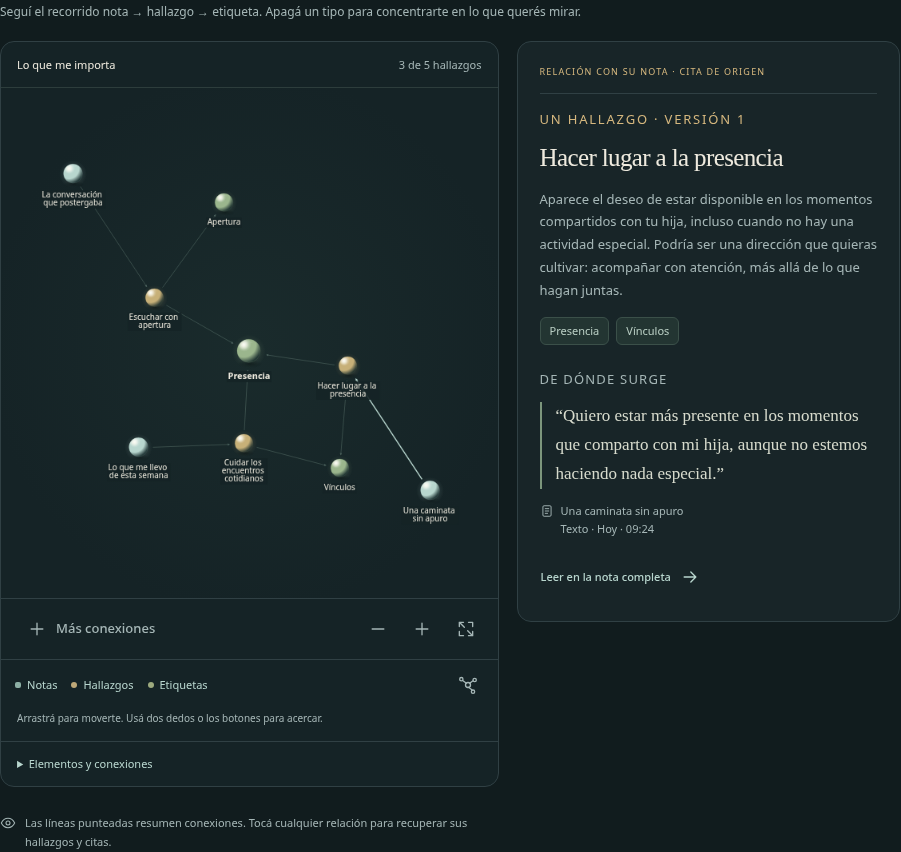
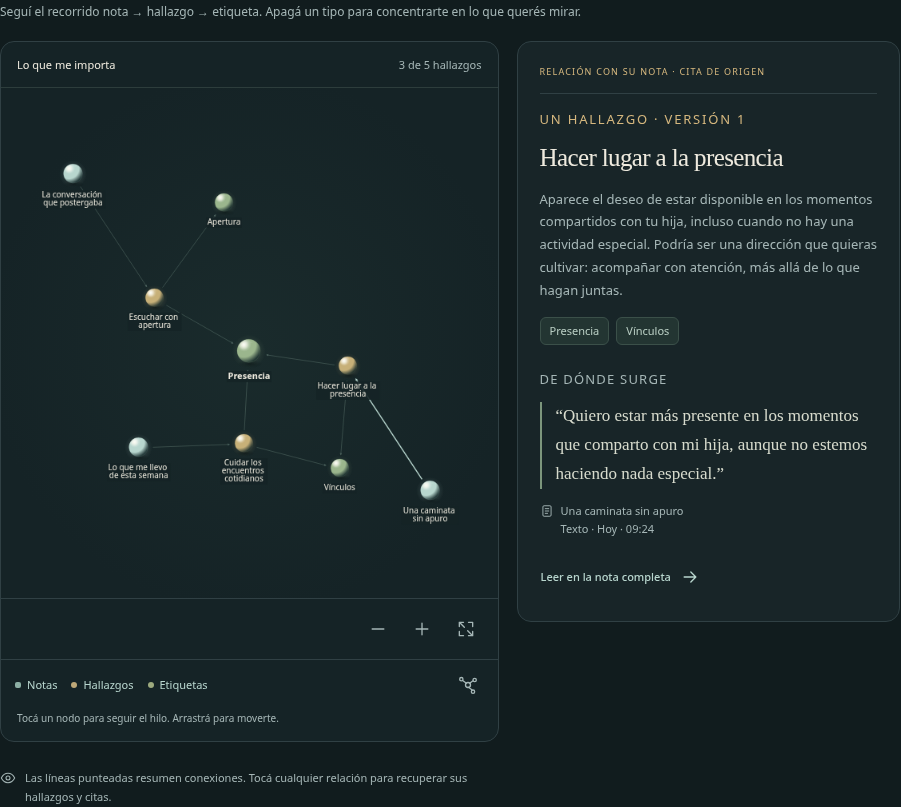
prototype de laboratorio. aprobado el grafo

diff --git a/prototypes/laboratorio/app.js b/prototypes/laboratorio/app.js
@@ -39,7 +39,7 @@
     draft: stored?.draft?.sample ? stored.draft : stored?.initialized ? null : draftDemo(),
     axes: Array.isArray(stored?.axes) ? stored.axes : [demoAxis()],
     page: 'inicio', preview: null, history: [], historyIndex: -1, resultMode: 'graph',
-    selected: '', selectedTag: '', expanded: false, zoom: 1, search: '',
+    selected: '', selectedTag: '', graphRevealed: null, zoom: 1, search: '',
     graphVisibility: { note: true, finding: true, label: true }, graphModel: null, graphEntity: null, graphFocusTag: '',
     busy: false, doneCount: 0, compiling: false, scenario: '', returnToResults: false,
     axisId: 'valores', savedAxisId: '', feedback: '',
@@ -170,9 +170,6 @@
   function graphElements() {
     return [...state.graphModel.nodes, ...state.graphModel.edges].map(x => x.data);
   }
-  function graphElementList() {
-    return graphElements().map(e => `<button data-action="graph-select" data-id="${escape(e.id)}" aria-label="${escape(e.accessible)}"><span>${escape(e.accessible)}</span>${icon('chevron')}</button>`).join('');
-  }
   function graphLegend() {
     return `<div id="graph-layer-controls" class="layer-controls" role="group" aria-label="Tipos de nodo">${graphLayerControls()}</div><span id="graph-layer-help" class="sr-only">Tocá cada referencia para mostrar u ocultar ese tipo de nodo. Debe quedar al menos uno visible.</span><button class="quiet icon-button" data-action="arrange" aria-label="Ordenar" title="Ordenar grafo">${icon('graph')}</button>`;
   }
@@ -190,12 +187,11 @@
   }
   function graph(p) {
     const fs = findings(p);
-    state.graphModel = window.LabGraph.project(fs, { visibility: state.graphVisibility, expanded: state.expanded, focusTag: state.graphFocusTag });
+    state.graphModel = window.LabGraph.project(fs, { visibility: state.graphVisibility, revealedFindingIds: state.graphRevealed, focusTag: state.graphFocusTag });
     state.graphFocusTag = state.graphModel.rootTag;
     const elements = graphElements();
     state.graphEntity = elements.find(e => e.id === state.graphEntity?.id) || state.graphModel.nodes.find(n => n.data.id === state.graphModel.rootId)?.data;
-    const canExpand = state.graphModel.visibleFindingIds.length < fs.length || state.expanded;
-    return `<section class="graph-panel" aria-label="Conexiones de los hallazgos"><div class="graph-top"><span>${escape(p.title)}</span><span class="graph-caption">${state.graphModel.visibleFindingIds.length} de ${fs.length} hallazgos</span></div><div class="graph-canvas" id="lab-graph" role="img" tabindex="0" aria-label="Grafo de notas, hallazgos y etiquetas. Podés arrastrar nodos y tocar conexiones. Para navegar con teclado, abrí Elementos y conexiones."></div><div class="graph-tools"><button class="quiet" data-action="expand" ${canExpand ? '' : 'disabled'}>${icon(state.expanded ? 'minus' : 'plus')}${state.expanded ? 'Menos conexiones' : 'Más conexiones'}</button><div><button class="icon-button quiet" data-action="zoom-out" aria-label="Alejar grafo">${icon('minus')}</button><button class="icon-button quiet" data-action="zoom-in" aria-label="Acercar grafo">${icon('plus')}</button><button class="icon-button quiet" data-action="fit-graph" aria-label="Ajustar grafo a la pantalla">${icon('reset')}</button></div></div><div class="graph-legend">${graphLegend()}</div><p class="graph-help">Arrastrá para moverte. Usá dos dedos o los botones para acercar.</p><details class="graph-accessibility"><summary>Elementos y conexiones</summary><p>La misma exploración, disponible con teclado.</p><div class="graph-element-list">${graphElementList()}</div></details></section>`;
+    return `<section class="graph-panel" aria-label="Conexiones de los hallazgos"><div class="graph-top"><span>${escape(p.title)}</span><span class="graph-caption">${state.graphModel.visibleFindingIds.length} de ${fs.length} hallazgos</span></div><div class="graph-canvas" id="lab-graph" role="img" tabindex="0" aria-label="Grafo de notas, hallazgos y etiquetas. Podés arrastrar nodos y tocar conexiones. Para leer con teclado, usá la vista Lista."></div><div class="graph-tools"><div><button class="icon-button quiet" data-action="zoom-out" aria-label="Alejar grafo">${icon('minus')}</button><button class="icon-button quiet" data-action="zoom-in" aria-label="Acercar grafo">${icon('plus')}</button><button class="icon-button quiet" data-action="fit-graph" aria-label="Ajustar grafo a la pantalla">${icon('reset')}</button></div></div><div class="graph-legend">${graphLegend()}</div><p class="graph-help">Tocá un nodo para seguir el hilo. Arrastrá para moverte.</p></section>`;
   }
   function graphDetail(p, active = false) {
     const fs = findings(p), e = state.graphEntity;
@@ -223,17 +219,29 @@
     const hiddenSelection = !graphElements().some(item => item.id === e.id);
     return `${hiddenSelection ? '<p class="selection-hidden">Este elemento está oculto en el mapa. Su detalle sigue disponible.</p>' : ''}<button class="text-button back-to-graph" data-action="back-to-graph">${icon('back')}Volver al grafo</button>${body}`;
   }
-  function selectGraphEntity(entity, moveFocus = true) {
+  function selectGraphEntity(entity, moveFocus = true, expandNeighbors = true) {
     const p = graphContext(); if (!p || !entity) return;
     state.graphEntity = entity;
-    if (entity.kind === 'label') state.graphFocusTag = entity.tag;
+    let grew = false;
+    if (expandNeighbors && ['note', 'finding', 'label'].includes(entity.kind)) {
+      const fs = findings(p), revealed = new Set(state.graphModel.visibleFindingIds);
+      const neighbors = fs.filter(f => entity.kind === 'note' ? f.note === entity.noteId : entity.kind === 'finding' ? f.id === entity.findingId : f.tags.some(t => t.toLocaleLowerCase('es').trim() === entity.tag.toLocaleLowerCase('es').trim()));
+      neighbors.forEach(f => revealed.add(f.id));
+      if (revealed.size > state.graphModel.visibleFindingIds.length) {
+        grew = true;
+        state.graphRevealed = [...revealed];
+        state.graphModel = window.LabGraph.project(fs, { visibility: state.graphVisibility, revealedFindingIds: state.graphRevealed, focusTag: state.graphFocusTag });
+        graphController?.update(state.graphModel, entity.id);
+        $('.graph-caption').textContent = `${revealed.size} de ${fs.length} hallazgos`;
+      }
+    }
     if (entity.kind === 'finding') state.selected = entity.findingId;
     graphController?.select(entity.id);
     const target = $('#finding-detail');
     target.innerHTML = graphDetail(p, state.page.startsWith('eje-'));
     if (moveFocus) {
       target.focus({ preventScroll: true });
-      if (innerWidth < 1150) target.scrollIntoView({ behavior: matchMedia('(prefers-reduced-motion: reduce)').matches ? 'instant' : 'smooth', block: 'start' });
+      if (innerWidth < 1150 && !grew) target.scrollIntoView({ behavior: matchMedia('(prefers-reduced-motion: reduce)').matches ? 'instant' : 'smooth', block: 'start' });
     }
   }
   function mountGraph() {
@@ -252,7 +260,7 @@
   function axisPage() {
     const a = state.axes.find(x => x.id === state.axisId); if (!a) return home();
     const p = { ...a, comments: [], sample: a.hasResults ? [...new Set(D.findings[a.kind].map(f => f.note))] : [] };
-    return `${backHome()}<section class="workflow"><div class="axis-header"><p class="kicker">TU EJE · VERSIÓN ${a.version}</p><div class="switch-control"><span>${a.enabled ? 'Activo' : 'En pausa'}</span><button class="switch" role="switch" aria-checked="${a.enabled}" aria-label="Activar ${escape(a.title)}" data-action="toggle-axis"><span class="switch-track"><span class="switch-knob"></span></span></button></div></div><div class="intro"><h1>${escape(a.title)}</h1><p>${escape(a.purpose)}</p></div><div class="version-info"><span>${a.hasResults ? '4 notas · 5 hallazgos de ejemplo' : 'Todavía sin notas procesadas'}</span><span>${a.enabled ? 'Se aplica a notas nuevas' : 'Las próximas notas no usarán este eje'}</span></div><div class="section-heading"><h2>Seguí un hilo</h2><button class="text-button" data-action="edit-axis">Ajustar esta mirada${icon('edit')}</button></div>${a.hasResults ? `<div class="result-toolbar"><div class="segmented" role="group" aria-label="Vista de resultados"><button data-action="mode" data-mode="graph" aria-pressed="${state.resultMode === 'graph'}">${icon('graph')}Grafo</button><button data-action="mode" data-mode="list" aria-pressed="${state.resultMode === 'list'}">${icon('list')}Lista</button></div><span class="meta">Resultados conservados · versión ${a.resultsVersion || 1}</span></div>${resultsBody(p, true)}` : `<div class="empty"><span class="axis-symbol sage">${icon('leaf')}</span><h2>Una mirada lista para crecer.</h2><p>Los hallazgos aparecerán con tus próximas notas.<br>Las cinco notas de prueba no se incorporaron.</p><button class="secondary" data-action="demo-explore">Ver una exploración de ejemplo${icon('arrow')}</button></div>`}<p class="footnote">${icon('lock')}Esta es una demostración. Activar o pausar sólo cambia este prototipo.</p></section>`;
+    return `${backHome()}<section class="workflow"><div class="axis-header"><p class="kicker">TU EJE · VERSIÓN ${a.version}</p><div class="switch-control"><span>${a.enabled ? 'Activo' : 'En pausa'}</span><button class="switch" role="switch" aria-checked="${a.enabled}" aria-label="Activar ${escape(a.title)}" data-action="toggle-axis"><span class="switch-track"><span class="switch-knob"></span></span></button></div></div><div class="intro axis-intro"><h1>${escape(a.title)}</h1></div><details class="axis-description"><summary>Sobre este eje</summary><p>${escape(a.purpose)}</p><div class="version-info"><span>${a.hasResults ? '4 notas · 5 hallazgos de ejemplo' : 'Todavía sin notas procesadas'}</span><span>${a.enabled ? 'Se aplica a notas nuevas' : 'Las próximas notas no usarán este eje'}</span></div></details><div class="section-heading"><h2>Seguí un hilo</h2><button class="text-button" data-action="edit-axis">Ajustar esta mirada${icon('edit')}</button></div>${a.hasResults ? `<div class="result-toolbar"><div class="segmented" role="group" aria-label="Vista de resultados"><button data-action="mode" data-mode="graph" aria-pressed="${state.resultMode === 'graph'}">${icon('graph')}Grafo</button><button data-action="mode" data-mode="list" aria-pressed="${state.resultMode === 'list'}">${icon('list')}Lista</button></div><span class="meta">Resultados conservados · versión ${a.resultsVersion || 1}</span></div>${resultsBody(p, true)}` : `<div class="empty"><span class="axis-symbol sage">${icon('leaf')}</span><h2>Una mirada lista para crecer.</h2><p>Los hallazgos aparecerán con tus próximas notas.<br>Las cinco notas de prueba no se incorporaron.</p><button class="secondary" data-action="demo-explore">Ver una exploración de ejemplo${icon('arrow')}</button></div>`}<p class="footnote">${icon('lock')}Esta es una demostración. Activar o pausar sólo cambia este prototipo.</p></section>`;
   }
   function success() {
     const a = state.axes.find(x => x.id === state.savedAxisId); if (!a) return home();
@@ -300,7 +308,7 @@
     const kind = d.kind || (/podcast|episodio|propuesta|producto/i.test(d.purpose) ? 'podcast' : 'values');
     state.preview = { ...d, kind, number: state.history.length + 1, expired: false, failedNote: '', comments: [...(d.comments || [])] };
     state.busy = true; state.compiling = true; state.doneCount = 0; state.selectedTag = '';
-    state.selected = ''; state.expanded = false; state.zoom = 1; state.feedback = '';
+    state.selected = ''; state.graphRevealed = null; state.zoom = 1; state.feedback = '';
     const job = ++jobGeneration;
     go('resultados');
     setTimeout(() => {
@@ -368,16 +376,12 @@
       const kind = button.dataset.kind;
       if (state.graphVisibility[kind] && Object.values(state.graphVisibility).filter(Boolean).length === 1) return;
       state.graphVisibility[kind] = !state.graphVisibility[kind];
-      state.graphModel = window.LabGraph.project(findings(graphContext()), { visibility: state.graphVisibility, expanded: state.expanded, focusTag: state.graphFocusTag });
+      state.graphModel = window.LabGraph.project(findings(graphContext()), { visibility: state.graphVisibility, revealedFindingIds: state.graphRevealed, focusTag: state.graphFocusTag });
       graphController?.update(state.graphModel);
       $('#graph-layer-controls').innerHTML = graphLayerControls();
       $('#graph-description').textContent = graphDescription();
-      $('.graph-element-list').innerHTML = graphElementList();
-      if (state.graphEntity) selectGraphEntity(state.graphEntity, false);
+      if (state.graphEntity) selectGraphEntity(state.graphEntity, false, false);
       $(`[data-action="graph-layer"][data-kind="${kind}"]`).focus({ preventScroll: true });
-    } else if (action === 'graph-select') {
-      const e = [...state.graphModel.nodes, ...state.graphModel.edges].find(x => x.data.id === button.dataset.id)?.data;
-      selectGraphEntity(e);
     } else if (action === 'graph-finding' || action === 'graph-tag' || action === 'graph-note') {
       const p = graphContext(), fs = findings(p), id = button.dataset.id;
       let e = state.graphModel.nodes.find(x => x.data.findingId === id)?.data;
@@ -394,9 +398,6 @@
       else if (action === 'zoom-out') graphController?.zoom(.8);
       else if (action === 'arrange') graphController?.arrange();
       else graphController?.fit();
-    } else if (action === 'expand') {
-      state.expanded = !state.expanded; state.graphEntity = null;
-      render({ focus: false, scroll: false }); $('[data-action="expand"]')?.focus({ preventScroll: true });
     } else if (action === 'edit-purpose') { state.returnToResults = true; go('crear'); }
     else if (action === 'view-purpose') showModal('La mirada de esta prueba', `<p class="kicker">${escape(activePreview().title)}</p><p>${escape(activePreview().purpose)}</p><div class="modal-actions"><button class="secondary" data-action="close-modal">Volver a los hallazgos</button><button class="primary" data-action="edit-purpose-modal">Editar mi intención${icon('edit')}</button></div>`);
     else if (action === 'edit-purpose-modal') { closeModal(); state.returnToResults = true; go('crear'); }
@@ -407,7 +408,7 @@
     else if (action === 'retry') { const retried = state.preview, generation = jobGeneration; button.disabled = true; button.innerHTML = '<span class="spinner" aria-hidden="true"></span>Revisando la nota pendiente…'; setTimeout(() => { if (state.preview === retried && generation === jobGeneration) { retried.failedNote = ''; render({ scroll: false }); toast('La nota pendiente ya está revisada. Conservamos los otros resultados.'); } }, 1000); }
     else if (action === 'accept-dialog') showModal(state.draft?.axisId ? '¿Guardar esta nueva versión?' : '¿Activar esta mirada?', `<p>Vas a conservar exactamente la mirada de la prueba que acabás de revisar.</p><div class="success-card"><p class="kicker">${escape(activePreview().title)}</p><p>Se aplicará a las próximas notas. Las cinco notas de prueba quedan aparte.</p></div><div class="modal-actions"><button class="secondary" data-action="close-modal">Seguir revisando</button><button class="primary" data-action="accept">${icon('check')}${state.draft?.axisId ? 'Guardar versión' : 'Activar eje'}</button></div>`);
     else if (action === 'accept') acceptPreview();
-    else if (action === 'open-axis') { state.axisId = button.dataset.id; state.selected = ''; state.selectedTag = ''; state.zoom = 1; state.expanded = false; go(`eje-${state.axisId}`); }
+    else if (action === 'open-axis') { state.axisId = button.dataset.id; state.selected = ''; state.selectedTag = ''; state.zoom = 1; state.graphRevealed = null; go(`eje-${state.axisId}`); }
     else if (action === 'toggle-axis') { const a = state.axes.find(x => x.id === state.axisId); a.enabled = !a.enabled; save(); render({ focus: false, scroll: false }); $('[data-action="toggle-axis"]').focus({ preventScroll: true }); toast(a.enabled ? 'Eje activo en la demostración.' : 'Eje en pausa. Los hallazgos anteriores se conservan.'); }
     else if (action === 'edit-axis' || action === 'edit-axis-confirm') {
       const a = state.axes.find(x => x.id === state.axisId);

diff --git a/prototypes/laboratorio/graph.js b/prototypes/laboratorio/graph.js
@@ -5,7 +5,7 @@
   const noteId = id => `note:${id}`;
   const findingId = id => `finding:${id}`;
   const documentFor = id => window.LAB_DATA.notes.find(n => n.id === id);
-  function project(findings, { visibility = {}, expanded = false, focusTag = '' } = {}) {
+  function project(findings, { visibility = {}, expanded = false, focusTag = '', revealedFindingIds = null } = {}) {
     const shown = { note: true, finding: true, label: true, ...visibility };
     if (!Object.values(shown).some(Boolean)) shown.label = true;
     const labels = new Map();
@@ -16,7 +16,8 @@
     }
     const ranked = [...labels.values()].sort((a, b) => b.notes.size - a.notes.size || a.label.localeCompare(b.label));
     const rootTag = labels.get(key(focusTag))?.label || ranked[0]?.label || '';
-    const visible = expanded ? findings : findings.filter(f => f.tags.some(t => key(t) === key(rootTag)));
+    const revealed = revealedFindingIds ? new Set(revealedFindingIds) : null;
+    const visible = revealed ? findings.filter(f => revealed.has(f.id)) : expanded ? findings : findings.filter(f => f.tags.some(t => key(t) === key(rootTag)));
     const nodes = new Map(), baseEdges = new Map(), edges = new Map();
     const addEdge = (target, data) => target.set(data.id, { data });
     for (const f of visible) {
@@ -162,10 +163,22 @@
       wheelSensitivity: .2, boxSelectionEnabled: false, autounselectify: true,
     });
     cy.getElementById(model.layoutRootId).addClass('root');
-    function update(next) {
+    function update(next, anchorId) {
       model = next;
       const shown = new Set(model.nodes.map(n => n.data.id));
+      const anchor = cy.getElementById(anchorId || model.layoutRootId).position() || { x: 0, y: 0 };
+      const occupied = cy.nodes().map(n => n.position());
       cy.batch(() => {
+        for (const node of model.allNodes) if (!cy.getElementById(node.data.id).length) {
+          let position;
+          for (let attempt = 0; attempt < 200; attempt++) {
+            const angle = attempt * 2.399963, radius = 130 + Math.floor(attempt / 12) * 80;
+            position = { x: anchor.x + Math.cos(angle) * radius, y: anchor.y + Math.sin(angle) * radius };
+            if (occupied.every(p => Math.hypot(p.x-position.x, p.y-position.y) > 115)) break;
+          }
+          occupied.push(position);
+          cy.add({ ...node, classes: 'combined', position });
+        }
         cy.nodes().forEach(n => n.toggleClass('layer-hidden', !shown.has(n.id())));
         cy.edges().remove();
         cy.add(model.edges);

diff --git a/prototypes/laboratorio/style.css b/prototypes/laboratorio/style.css
@@ -172,11 +172,6 @@ textarea { min-height: 185px; resize: vertical; }
 .projection-description { font-size: 12px; max-width: 690px; margin: 0 0 19px; }
 .graph-canvas { position: relative; width: 100%; height: 440px; overflow: hidden; background: radial-gradient(ellipse at center, #1a2b2c 0, #152326 75%); }
 .graph-canvas canvas { display: block; }
-.graph-accessibility { border-top: 1px solid var(--line); font-size: 11px; color: var(--muted); }
-.graph-accessibility summary { min-height: 44px; padding: 14px 16px; cursor: pointer; color: var(--accent); }
-.graph-accessibility > p { margin: 0; padding: 0 16px; font-size: 11px; }
-.graph-element-list { padding: 8px 12px 13px; display: grid; gap: 4px; }
-.graph-element-list button { text-align: left; justify-content: space-between; border-bottom: 1px solid var(--line); font-size: 11px; border-radius: 0; }
 .graph-legend > .icon-button { margin-left: auto; color: var(--muted); }
 .connection-finding { padding-block: 16px; border-top: 1px solid var(--line); }
 .connection-finding h3 { margin: 0 0 12px; font: 22px/1.4 var(--font-editorial); }
@@ -350,3 +345,12 @@ blockquote { font: 17px/1.7 var(--font-editorial); color: #d7dbcd; padding: 0 0 
 @media (prefers-reduced-motion: reduce) {
   *, *::before, *::after { animation: none !important; transition: none !important; scroll-behavior: auto !important; }
 }
+
+.axis-intro h1 { margin-bottom: 8px; }
+.axis-description { border-bottom: 1px solid var(--line); margin-bottom: 20px; }
+.axis-description summary { display: flex; align-items: center; gap: 8px; min-height: 44px; width: fit-content; cursor: pointer; color: var(--muted); font-size: 11px; list-style: none; }
+.axis-description summary::-webkit-details-marker { display: none; }
+.axis-description summary::before { content: '›'; font-size: 16px; transition: transform .15s; }
+.axis-description[open] summary::before { transform: rotate(90deg); }
+.axis-description > p { max-width: 580px; font-size: 13px; margin: 8px 0 12px; }
+.axis-description .version-info { border: 0; padding-bottom: 16px; }

diff --git a/prototypes/laboratorio/README.md b/prototypes/laboratorio/README.md
@@ -26,7 +26,7 @@ prototipo existente de `app-refresh`.
   selección no cambia al refinar, salvo una acción explícita del usuario.
 - **Prueba:** preparación y avance por nota, sin porcentajes inventados.
 - **Resultados:** un grafo con interruptores independientes para notas, hallazgos
-  y etiquetas sobre los mismos resultados; expansión, zoom, detalle, citas y lectura del original resaltado. La vista
+  y etiquetas sobre los mismos resultados; exploración progresiva al tocar nodos, zoom, detalle, citas y lectura del original resaltado. La vista
   Lista permite recorrer todos los resultados, incluyendo notas sin hallazgos.
 - **Refinamiento:** comentario, nueva prueba, comparación con la anterior y
   bloqueo de aceptación si cambió la finalidad o la muestra sin volver a probar.
@@ -67,11 +67,15 @@ y **Ajustar a la pantalla** son acciones explícitas.
 Las conexiones resumidas se dibujan con líneas punteadas y conservan referencias
 exactas a los hallazgos que las justifican. Compartir una etiqueta no implica
 expresar la misma idea. Cambiar lo visible no genera otra prueba, no modifica el
-borrador y no acepta el eje. **Más conexiones** abre el resto de los resultados.
+borrador y no acepta el eje. Tocar una nota agrega sus hallazgos; tocar una
+etiqueta agrega los hallazgos asociados a ella. Las ramas abiertas se conservan,
+sin duplicar nodos ni mover los existentes ni cambiar la cámara. No hay un botón
+para expandir todo. En este prototipo la expansión usa los datos de ejemplo.
 
 Se reutilizan Cytoscape y la iluminación vectorial de la constelación existente.
-**Elementos y conexiones** ofrece las mismas selecciones con teclado; la vista
-**Lista** conserva el acceso a los resultados y a las notas sin hallazgos.
+La vista **Lista** permite leer con teclado todos los hallazgos y las citas,
+incluidas las notas sin resultados. Se retiró el listado auxiliar «Elementos y
+conexiones» del pie del grafo.
 
 El botón de escenarios, junto a «PROTOTIPO», permite abrir el espacio vacío,
 simular una nota pendiente recuperable, vencer una prueba y restablecer el ejemplo.
@@ -95,7 +99,9 @@ variaciones predeterminadas de los hallazgos para evaluar el recorrido visual.
 - Diseño desde 320 px: navegación inferior con cuatro secciones, columnas
   apiladas, campos de 16 px y controles de al menos 44 px. En escritorio utiliza
   barra lateral, formularios con ayuda lateral y grafo con detalle al costado.
-- La intención completa se consulta a demanda para dar espacio a los resultados.
+- En un eje aceptado, «Sobre este eje» empieza cerrado y despliega la finalidad
+  y los datos de aplicación; el título sigue siempre visible. La intención
+  completa se consulta a demanda para dar espacio a los resultados.
   Los detalles técnicos del backend quedan fuera del recorrido.
 - Diálogos con altura restringida y scroll propio, cierre con Escape, foco
   contenido y restauración al cerrar; evidencia disponible sin depender del grafo.
